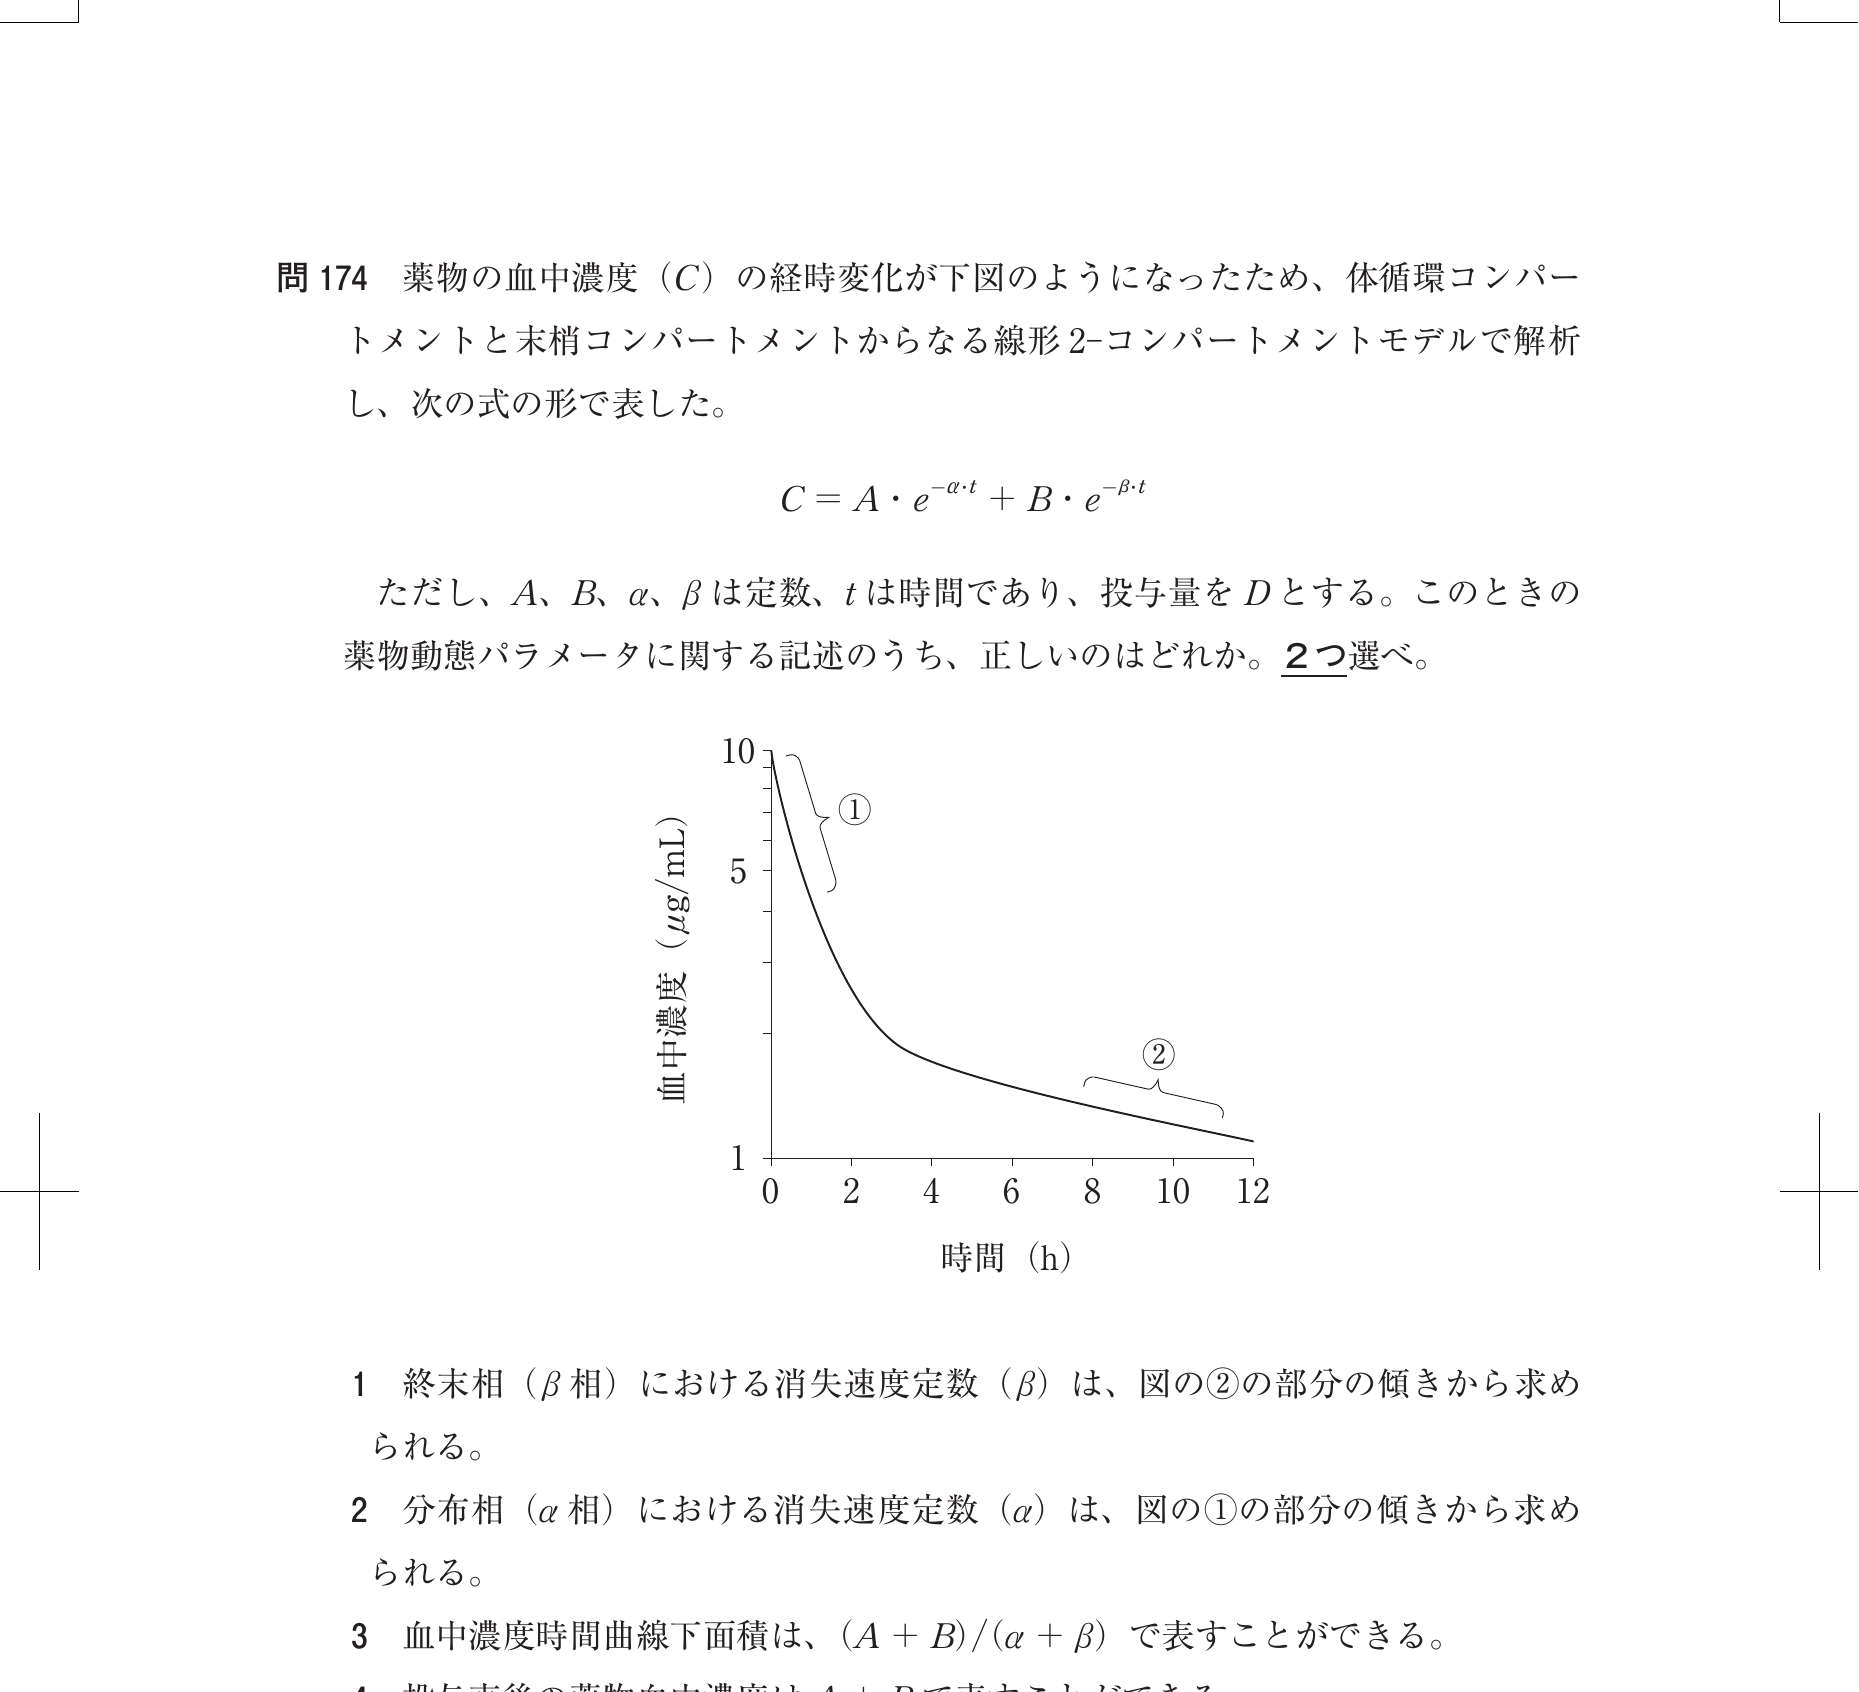
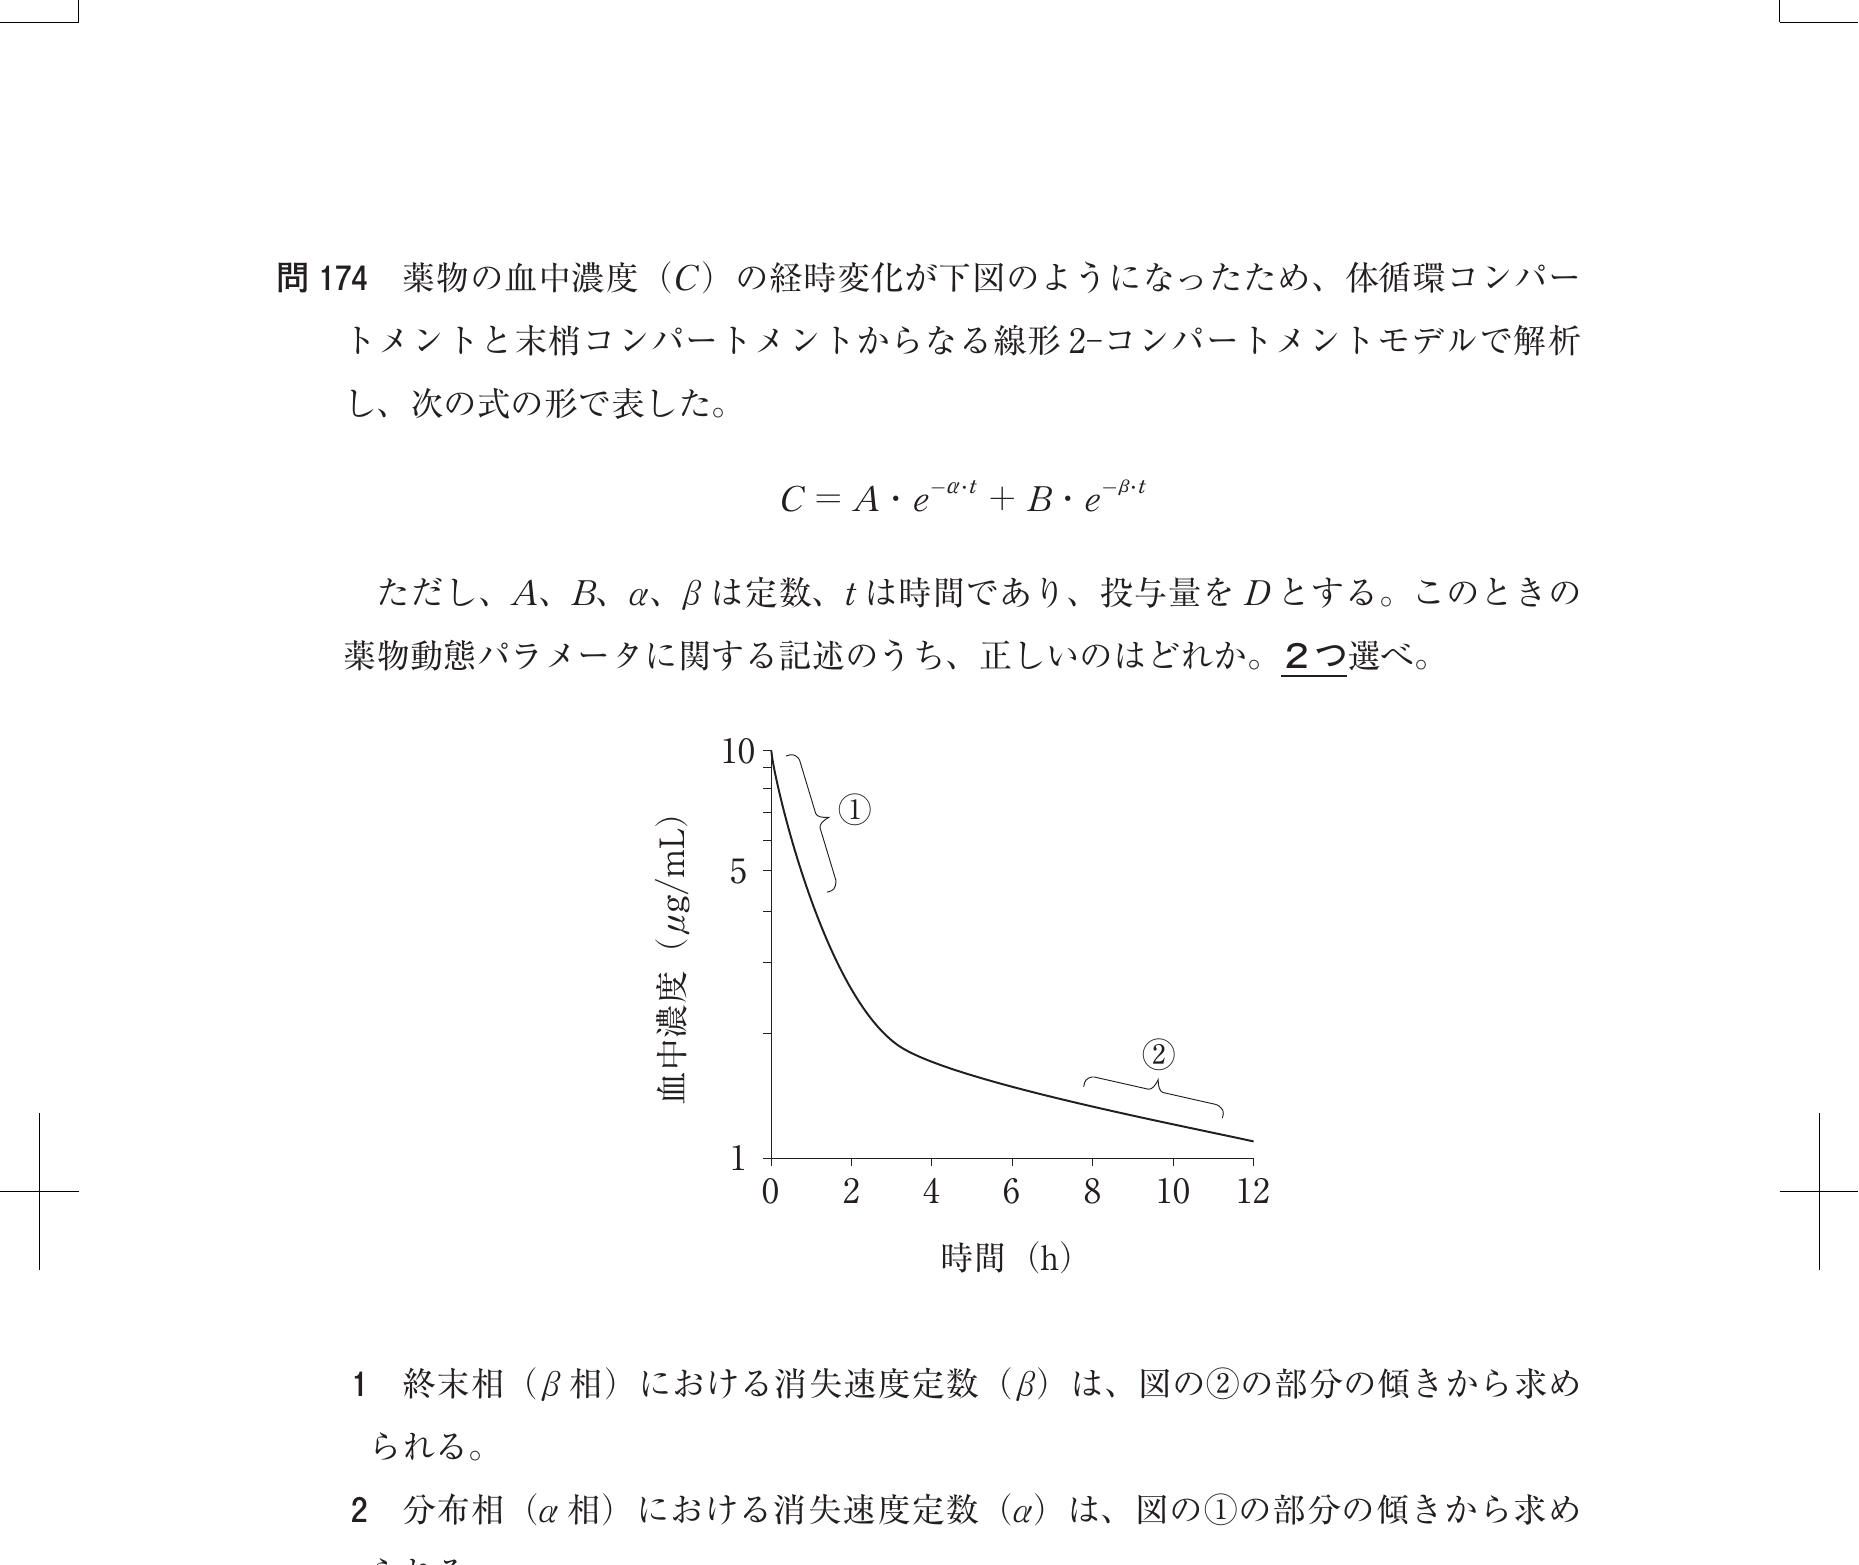
fix: Tier1 v3レビュー🔴致命的15問の修正（凡例拡張+シナリオ画像誤配置除去）
Category 1（横軸凡例が見えない6問）:
- r101-091, r102-121, r104-173, r105-130, r106-178, r107-174
- ヘッダ80px除去のみ+密度トリム(startPct=0.6)で凡例を保持

Category 2（シナリオ画像誤配置6問）+ r102-218:
- r106-298, r107-238, r108-216, r109-266, r110-222, r110-254, r102-218
- image_url除去+画像ファイル削除（前コミットで完了済み）

Category 3（その他3問）:
- r109-140: 2ページ個別密度トリム+結合（装置図+表1+選択肢を完全収録）
- r109-220: page27（図のあるページ）から再クロップ
- r102-218: image_url除去（前コミットで完了済み）

diff --git a/scripts/fix-critical-images-v3.ts b/scripts/fix-critical-images-v3.ts
@@ -1,0 +1,286 @@
+/**
+ * v3レビュー 🔴致命的NG 15問の修正
+ *
+ * Category 1: 横軸凡例が見えない（6問）→ ヘッダ80px除去 + 密度トリム(startPct=0.6)
+ * Category 2: シナリオ画像を問題に誤配置（6問）→ image_url除去
+ * Category 3: その他（3問）→ 個別対応
+ *
+ * npx tsx scripts/fix-critical-images-v3.ts
+ */
+import * as fs from 'fs'
+import * as path from 'path'
+import sharp from 'sharp'
+import { fileURLToPath } from 'url'
+
+const __filename = fileURLToPath(import.meta.url)
+const __dirname = path.dirname(__filename)
+const PAGES_DIR = path.join(__dirname, '..', 'data', 'exam-pages')
+const OUTPUT_DIR = path.join(__dirname, '..', 'public', 'images', 'questions')
+const DATA_DIR = path.join(__dirname, '..', 'src', 'data', 'real-questions')
+
+// ============================================================
+// 密度ベーストリム（startPct=0.6 で凡例を保持）
+// ============================================================
+async function densityTrim(imgPath: string, startPct = 0.6): Promise<number> {
+  const { data, info } = await sharp(imgPath).raw().toBuffer({ resolveWithObject: true })
+  const { width, height, channels } = info
+  let gapStart = -1
+  const startY = Math.floor(height * startPct)
+
+  for (let y = startY; y < height; y++) {
+    let nonWhite = 0
+    for (let x = 0; x < width; x++) {
+      const idx = (y * width + x) * channels
+      if (data[idx] < 240 || data[idx + 1] < 240 || data[idx + 2] < 240) nonWhite++
+    }
+    if (nonWhite / width < 0.005) {
+      if (gapStart === -1) gapStart = y
+      if (y - gapStart >= 30) {
+        const newH = gapStart + 40
+        if (newH < height - 50) {
+          const meta = await sharp(imgPath).metadata()
+          const tmp = imgPath + '.tmp.png'
+          await sharp(imgPath).extract({ left: 0, top: 0, width: meta.width!, height: newH }).toFile(tmp)
+          fs.renameSync(tmp, imgPath)
+          console.log(`    密度トリム: ${height} → ${newH}px`)
+          return newH
+        }
+        return height
+      }
+    } else {
+      gapStart = -1
+    }
+  }
+  return height
+}
+
+// ============================================================
+// Category 1: 横軸凡例が見えない → ヘッダ80px除去のみ、密度トリム(0.6)
+// ============================================================
+interface ReCropConfig {
+  id: string
+  year: number
+  q: number
+  pageImg: string  // e.g. "q101-riron1-02"
+}
+
+const category1: ReCropConfig[] = [
+  { id: 'r101-091', year: 101, q: 91,  pageImg: 'q101-riron1-02' },
+  { id: 'r102-121', year: 102, q: 121, pageImg: 'q102-riron1-24' },
+  { id: 'r104-173', year: 104, q: 173, pageImg: 'q104-riron2-17' },
+  { id: 'r105-130', year: 105, q: 130, pageImg: 'q105-riron1-39' },
+  { id: 'r106-178', year: 106, q: 178, pageImg: 'q106-riron2-21' },
+  { id: 'r107-174', year: 107, q: 174, pageImg: 'q107-riron2-17' },
+]
+
+async function fixCategory1(cfg: ReCropConfig) {
+  const src = path.join(PAGES_DIR, String(cfg.year), cfg.pageImg + '.png')
+  if (!fs.existsSync(src)) {
+    console.log(`  ${cfg.id}: ソース画像なし (${src})`)
+    return
+  }
+
+  const meta = await sharp(src).metadata()
+  const w = meta.width!
+  const h = meta.height!
+
+  // ヘッダ80px除去のみ（フッタは密度トリムに任せる）
+  const cropTop = 80
+  const cropH = h - cropTop
+
+  const dest = path.join(OUTPUT_DIR, String(cfg.year), `q${String(cfg.q).padStart(3, '0')}.png`)
+  await sharp(src)
+    .extract({ left: 0, top: cropTop, width: w, height: cropH })
+    .toFile(dest + '.tmp')
+  fs.renameSync(dest + '.tmp', dest)
+
+  // 密度トリム: startPct=0.6 で横軸凡例を保持
+  const finalH = await densityTrim(dest, 0.6)
+  const fm = await sharp(dest).metadata()
+  console.log(`  ${cfg.id}: ${fm.width}x${fm.height}px (ヘッダ除去+密度トリム0.6) ✅`)
+}
+
+// ============================================================
+// Category 2: シナリオ画像を問題に誤配置 → image_url除去
+// ============================================================
+interface RemoveImageConfig {
+  id: string
+  year: number
+  q: number
+}
+
+const category2: RemoveImageConfig[] = [
+  { id: 'r106-298', year: 106, q: 298 },
+  { id: 'r107-238', year: 107, q: 238 },
+  { id: 'r108-216', year: 108, q: 216 },
+  { id: 'r109-266', year: 109, q: 266 },
+  { id: 'r110-222', year: 110, q: 222 },
+  { id: 'r110-254', year: 110, q: 254 },
+  // Category 3 の r102-218 も image_url 除去
+  { id: 'r102-218', year: 102, q: 218 },
+]
+
+function removeImageUrl(cfg: RemoveImageConfig) {
+  const tsFile = path.join(DATA_DIR, `exam-${cfg.year}.ts`)
+  let content = fs.readFileSync(tsFile, 'utf-8')
+
+  // image_url の行を探して削除
+  // パターン: "image_url": "/images/questions/{year}/q{NNN}.png" の行（前のカンマ含む）
+  const qPad = String(cfg.q).padStart(3, '0')
+  const imgPath = `/images/questions/${cfg.year}/q${qPad}.png`
+
+  // 前行のカンマ + 改行 + image_url行 を削除するパターン
+  // Case 1: 直前行にカンマがあり、image_url が最後のプロパティ
+  const pattern1 = new RegExp(
+    `,\\n(\\s*)"image_url":\\s*"${imgPath.replace(/\//g, '\\/')}"`,
+    'g'
+  )
+  // Case 2: image_url行の後にカンマがある場合（image_urlが最後でない場合）
+  const pattern2 = new RegExp(
+    `\\n(\\s*)"image_url":\\s*"${imgPath.replace(/\//g, '\\/')}"\\s*,`,
+    'g'
+  )
+
+  const before = content.length
+  content = content.replace(pattern1, '')
+  if (content.length === before) {
+    content = content.replace(pattern2, '')
+  }
+
+  if (content.length === before) {
+    console.log(`  ${cfg.id}: image_url が見つかりません`)
+    return false
+  }
+
+  fs.writeFileSync(tsFile, content, 'utf-8')
+  console.log(`  ${cfg.id}: image_url 除去 ✅`)
+
+  // 画像ファイルも削除
+  const imgFile = path.join(OUTPUT_DIR, String(cfg.year), `q${qPad}.png`)
+  if (fs.existsSync(imgFile)) {
+    fs.unlinkSync(imgFile)
+    console.log(`    画像ファイル削除: q${qPad}.png`)
+  }
+
+  return true
+}
+
+// ============================================================
+// Category 3: r109-140 (2ページ結合) + r109-220 (ページ27使用)
+// ============================================================
+
+/** r109-140: 2ページ結合 (page 46 + page 47の上部)
+ *  page 46: 装置A/B/Cの図（問題の視覚コンテンツ）
+ *  page 47: 表1 測定結果 + 選択肢（表データは解答に必須）
+ *  密度トリムはページ1の空白で誤カットするため、ページ別に処理
+ */
+async function fixR109_140() {
+  const dir = path.join(PAGES_DIR, '109')
+  const img1 = path.join(dir, 'q109-riron1-46.png')
+  const img2 = path.join(dir, 'q109-riron1-47.png')
+
+  if (!fs.existsSync(img1) || !fs.existsSync(img2)) {
+    console.log('  r109-140: ページ画像なし')
+    return
+  }
+
+  const m1 = await sharp(img1).metadata()
+  const m2 = await sharp(img2).metadata()
+
+  // ページ1: ヘッダ80px除去のみ → 密度トリムで装置図の下の空白を除去
+  const tmpP1 = path.join(OUTPUT_DIR, '109', 'q140_p1.tmp.png')
+  await sharp(img1)
+    .extract({ left: 0, top: 80, width: m1.width!, height: (m1.height ?? 0) - 160 })
+    .toFile(tmpP1)
+  await densityTrim(tmpP1, 0.5)
+
+  // ページ2: ヘッダ80px除去 → 密度トリムで選択肢下の空白を除去
+  // startPct=0.5 で選択肢（1〜5）をすべて保持
+  const tmpP2 = path.join(OUTPUT_DIR, '109', 'q140_p2.tmp.png')
+  await sharp(img2)
+    .extract({ left: 0, top: 80, width: m2.width!, height: (m2.height ?? 0) - 160 })
+    .toFile(tmpP2)
+  await densityTrim(tmpP2, 0.5)
+
+  // 2ページを結合
+  const bm1 = await sharp(tmpP1).metadata()
+  const bm2 = await sharp(tmpP2).metadata()
+  const w = Math.min(bm1.width ?? 0, bm2.width ?? 0)
+  const b1 = await sharp(tmpP1).resize(w).toBuffer()
+  const b2 = await sharp(tmpP2).resize(w).toBuffer()
+  const rb1 = await sharp(b1).metadata()
+  const rb2 = await sharp(b2).metadata()
+
+  const dest = path.join(OUTPUT_DIR, '109', 'q140.png')
+  await sharp({
+    create: { width: w, height: (rb1.height ?? 0) + (rb2.height ?? 0), channels: 3, background: { r: 255, g: 255, b: 255 } }
+  })
+    .composite([
+      { input: b1, top: 0, left: 0 },
+      { input: b2, top: rb1.height ?? 0, left: 0 }
+    ])
+    .png().toFile(dest + '.tmp')
+  fs.renameSync(dest + '.tmp', dest)
+
+  // 一時ファイル削除
+  fs.unlinkSync(tmpP1)
+  fs.unlinkSync(tmpP2)
+
+  const fm = await sharp(dest).metadata()
+  console.log(`  r109-140: ${fm.width}x${fm.height}px (2p個別トリム+結合) ✅`)
+}
+
+/** r109-220: page 27 を使用（問題の図がpage 27にある） */
+async function fixR109_220() {
+  const src = path.join(PAGES_DIR, '109', 'q109-jissen1-27.png')
+  if (!fs.existsSync(src)) {
+    console.log('  r109-220: ページ画像なし')
+    return
+  }
+
+  const meta = await sharp(src).metadata()
+  const w = meta.width!
+  const h = meta.height!
+
+  // ヘッダ80px除去
+  const cropTop = 80
+  const cropH = h - cropTop
+
+  const dest = path.join(OUTPUT_DIR, '109', 'q220.png')
+  await sharp(src)
+    .extract({ left: 0, top: cropTop, width: w, height: cropH })
+    .toFile(dest + '.tmp')
+  fs.renameSync(dest + '.tmp', dest)
+
+  await densityTrim(dest, 0.6)
+  const fm = await sharp(dest).metadata()
+  console.log(`  r109-220: ${fm.width}x${fm.height}px (page27+密度トリム) ✅`)
+}
+
+// ============================================================
+// Main
+// ============================================================
+async function main() {
+  console.log('=== v3レビュー 🔴致命的15問の修正 ===\n')
+
+  // Step 1: Category 2 + r102-218 — image_url 除去（7問）
+  console.log('[Category 2 + r102-218] シナリオ画像の誤配置 → image_url 除去')
+  for (const cfg of category2) {
+    removeImageUrl(cfg)
+  }
+
+  // Step 2: Category 1 — 横軸凡例が見えない → 再クロップ（6問）
+  console.log('\n[Category 1] 横軸凡例が見えない → ヘッダ除去+密度トリム(0.6)')
+  for (const cfg of category1) {
+    await fixCategory1(cfg)
+  }
+
+  // Step 3: Category 3 — r109-140, r109-220
+  console.log('\n[Category 3] その他')
+  await fixR109_140()
+  await fixR109_220()
+
+  console.log('\n✅ 全15問の修正完了')
+}
+
+main().catch(e => { console.error(e); process.exitCode = 1 })
